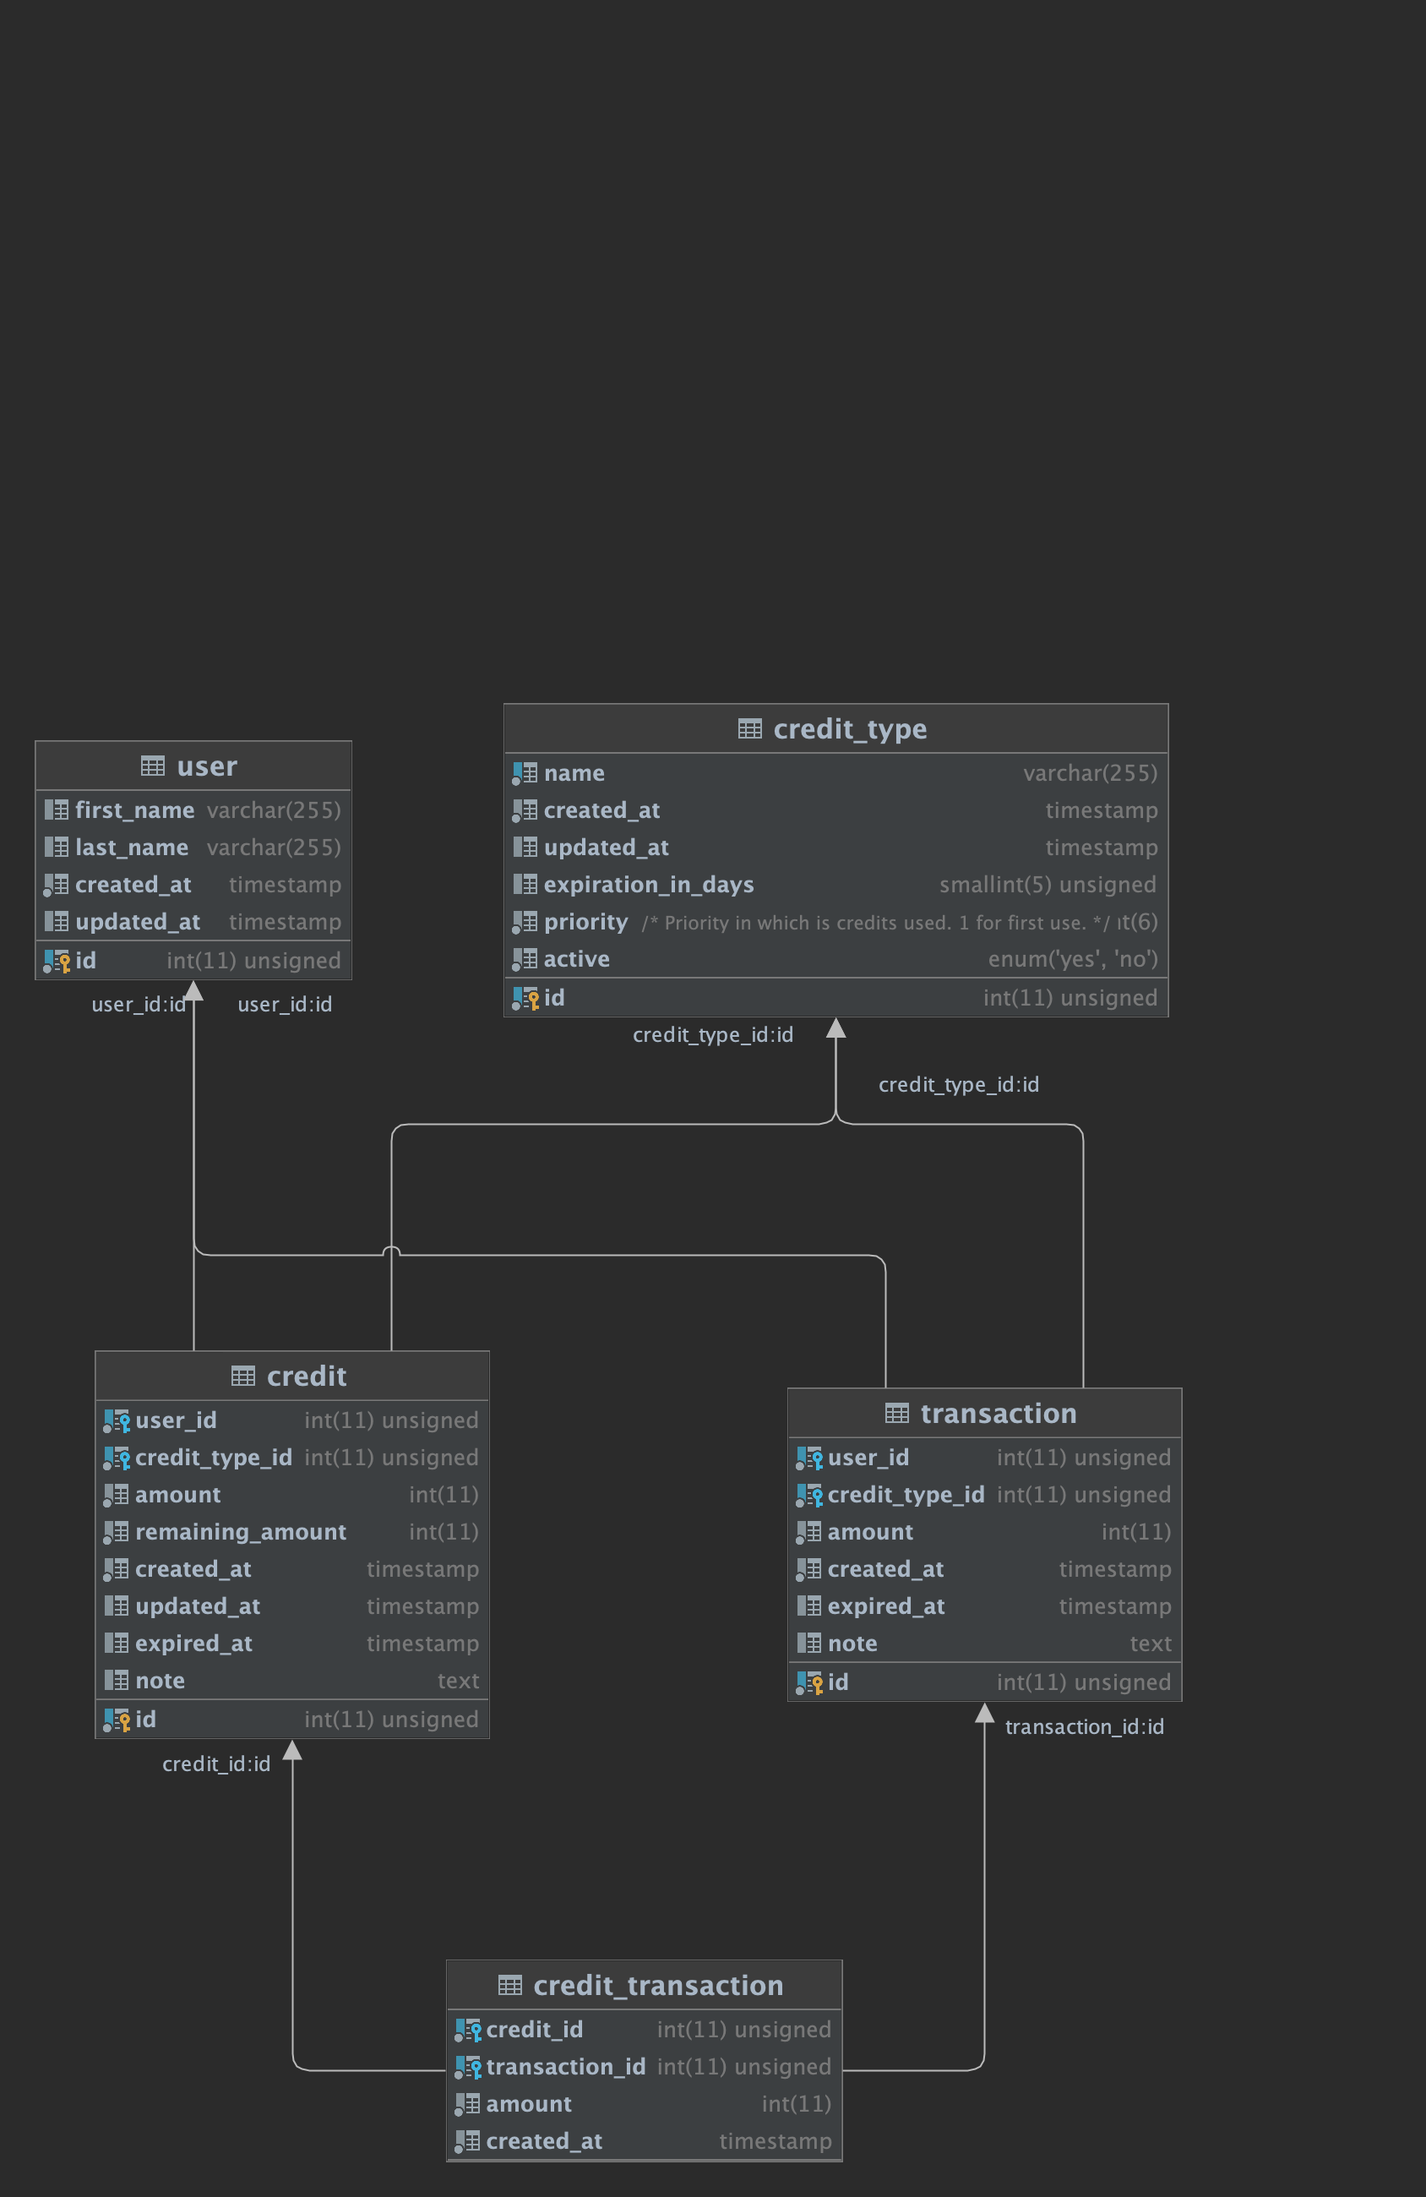
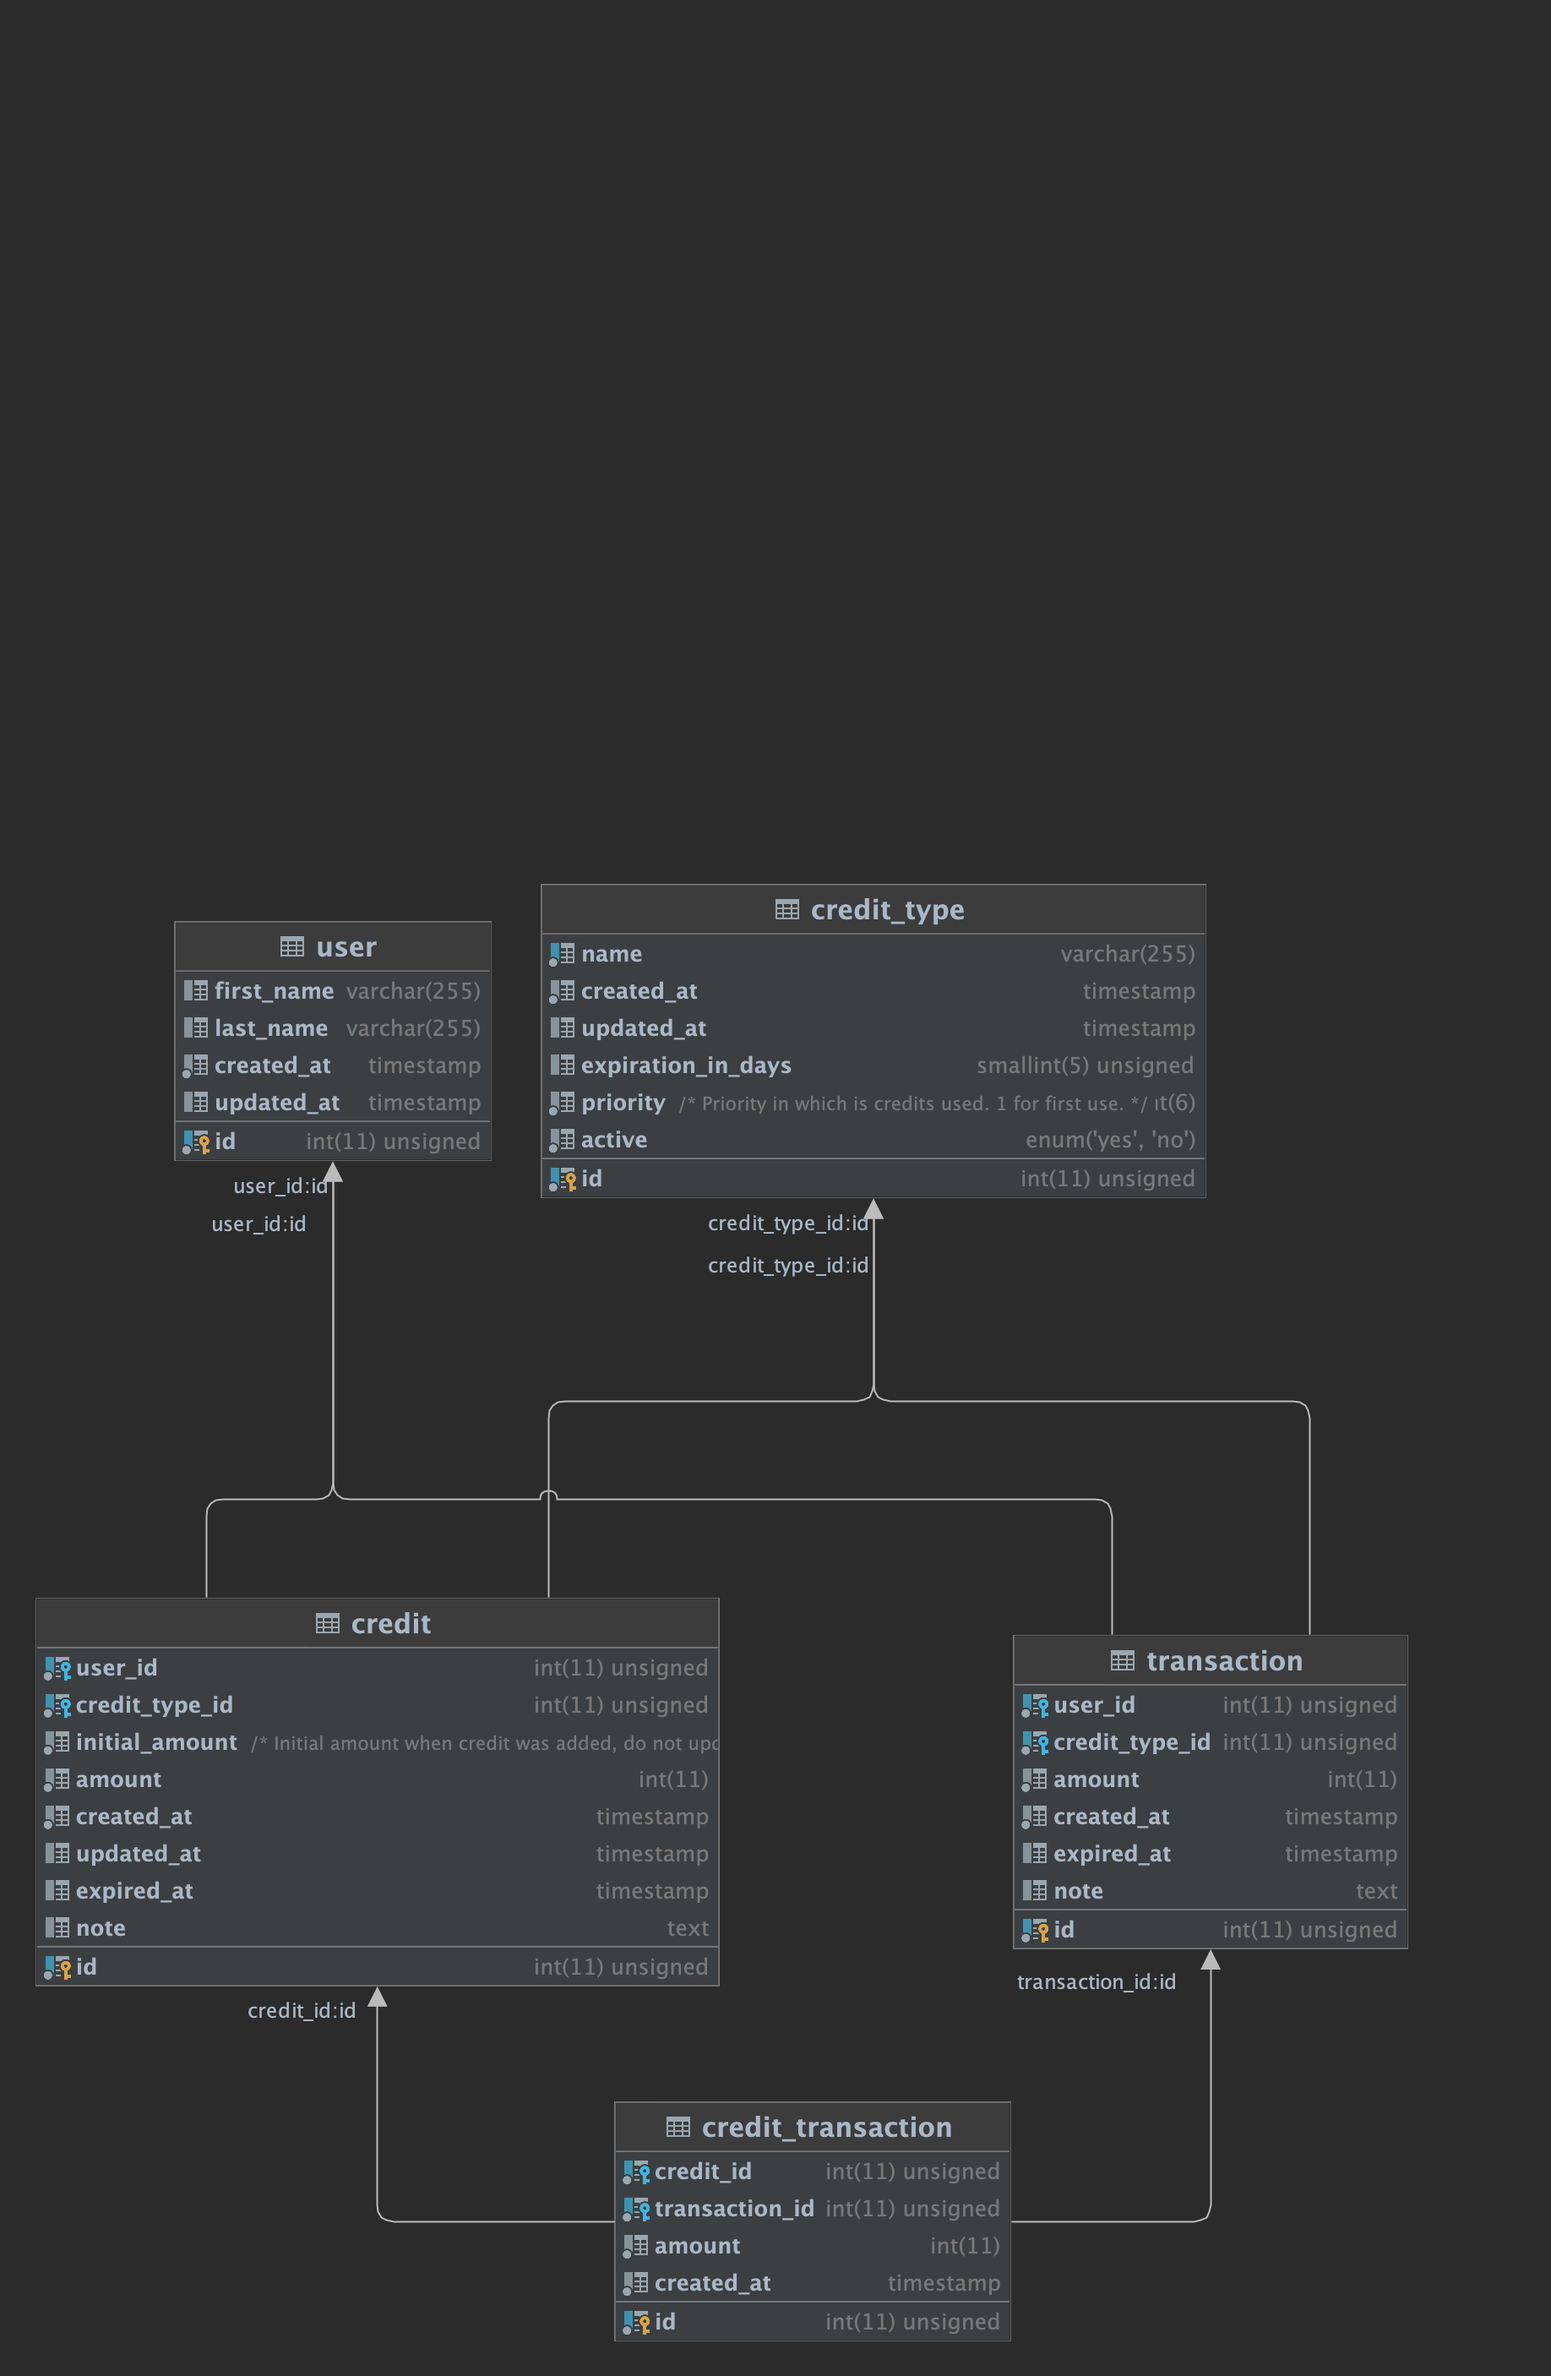
Rename credit.remaining_amount -> amount and credit.amount -> initial_amount

diff --git a/src/include/functions.php b/src/include/functions.php
@@ -9,7 +9,7 @@ require_once __DIR__ . '/../exception/InactiveCreditTypeException.php';
 
 function getUserCredit(PDO $pdo, int $userId, ?int $creditTypeId = null): ?int {
     $sql = '
-        SELECT SUM(remaining_amount)
+        SELECT SUM(amount)
         FROM credit
         WHERE user_id = ?
           AND (expired_at IS NULL OR expired_at > NOW())
@@ -64,7 +64,7 @@ function isCreditTypeActive(PDO $pdo, int $creditTypeId): bool {
  */
 function getUserCreditsByPriority(PDO $pdo, int $userId): array {
     $query = $pdo->prepare(
-        'SELECT c.id, c.credit_type_id AS creditTypeId, remaining_amount AS amount
+        'SELECT c.id, c.credit_type_id AS creditTypeId, amount
         FROM credit c JOIN credit_type ct ON c.credit_type_id = ct.id
         WHERE c.user_id = ?
           AND (c.expired_at IS NULL OR c.expired_at > NOW())
@@ -127,7 +127,7 @@ function addTransaction(PDO $pdo, int $userId, int $creditTypeId, int $amount, ?
 
         if ($amount > 0) {
             // add credits
-            $query = $pdo->prepare('INSERT INTO credit (user_id, credit_type_id, amount, remaining_amount, created_at, expired_at) VALUES (?, ?, ?, ?, ?, ?)');
+            $query = $pdo->prepare('INSERT INTO credit (user_id, credit_type_id, initial_amount, amount, created_at, expired_at) VALUES (?, ?, ?, ?, ?, ?)');
             $query->execute([$userId, $creditTypeId, $amount, $amount, $createdAt, $expiredAt]);
             $creditId = $pdo->lastInsertId();
             $query = $pdo->prepare('INSERT INTO credit_transaction (credit_id, transaction_id, amount, created_at) VALUES (?, ?, ?, ?)');
@@ -152,7 +152,7 @@ function addTransaction(PDO $pdo, int $userId, int $creditTypeId, int $amount, ?
                 }
 
                 // updated credit
-                $query = $pdo->prepare('UPDATE credit SET remaining_amount = remaining_amount - ?, updated_at = ? WHERE id = ?');
+                $query = $pdo->prepare('UPDATE credit SET amount = amount - ?, updated_at = ? WHERE id = ?');
                 $query->execute([$creditsToUse, $createdAt, $creditId]);
 
                 // insert to credit_transaction
